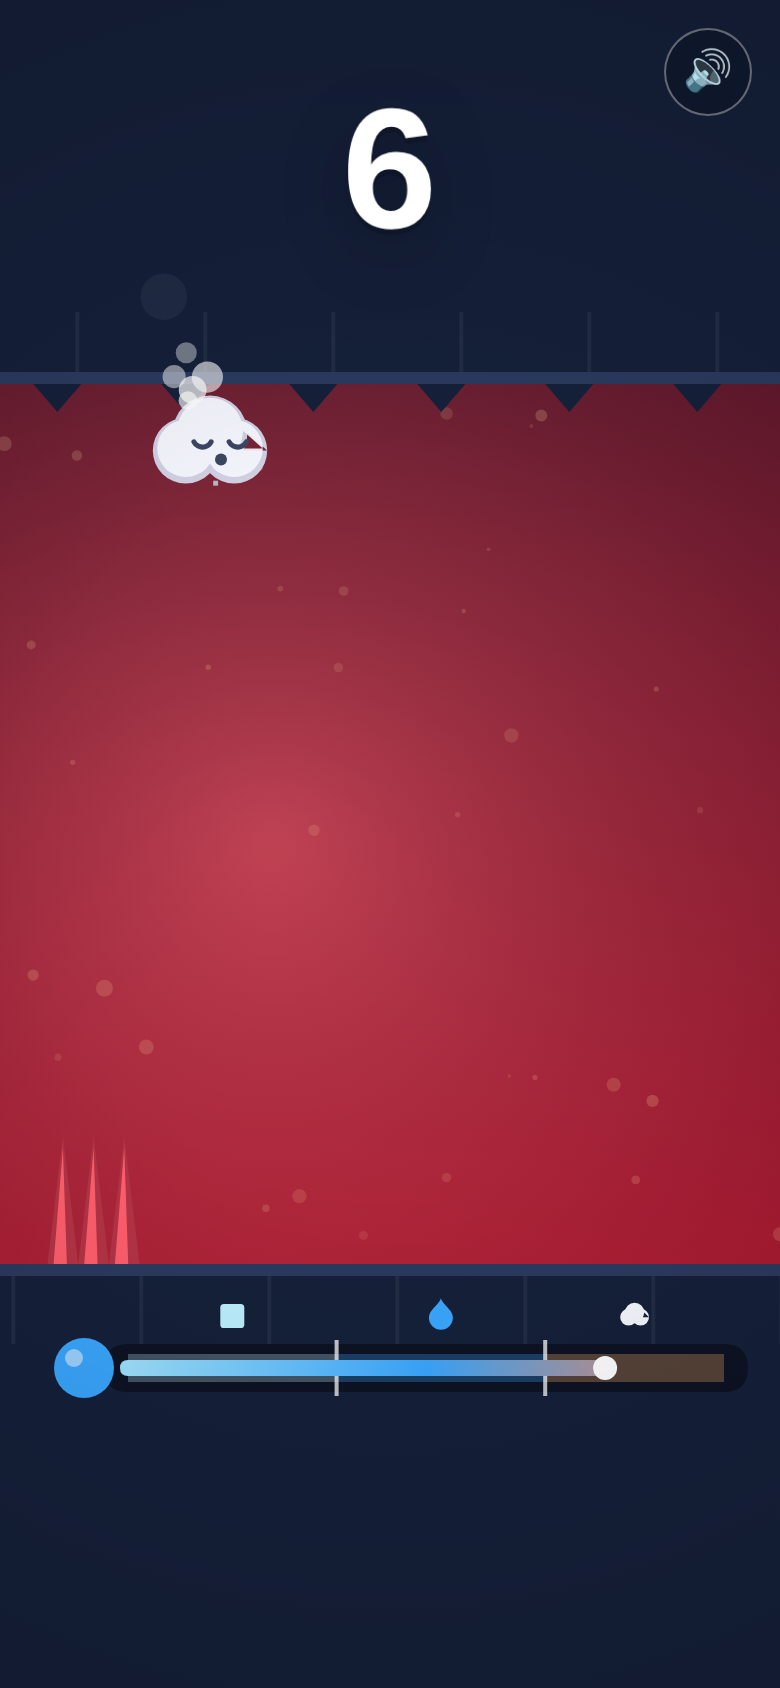
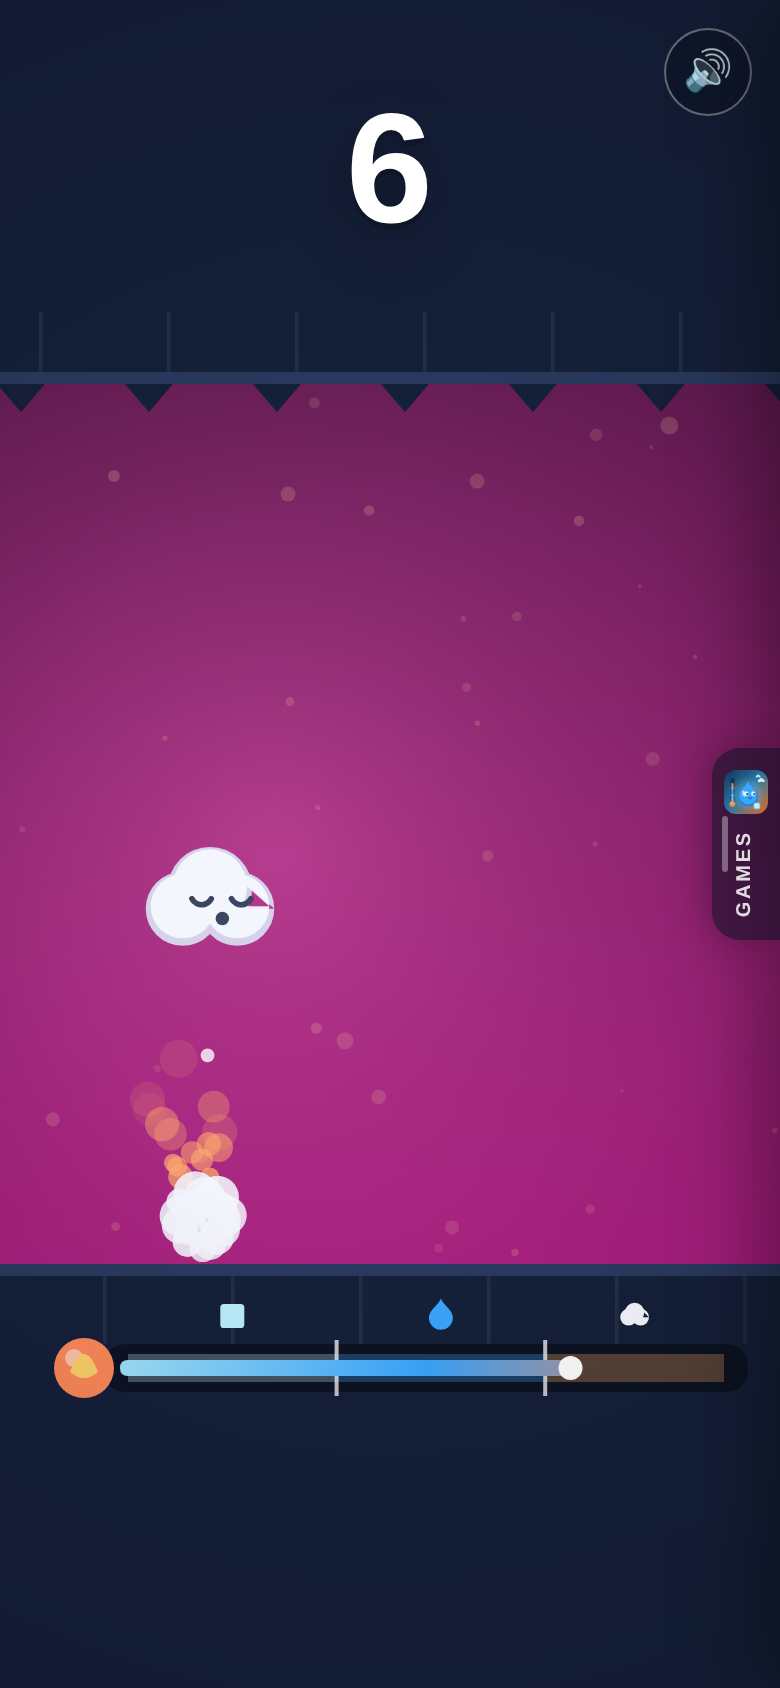
Add a shared right-edge game switcher drawer
switcher.js renders a vertical handle on the right edge of every game
page. Tapping it, or swiping in from the edge, slides open a drawer that
lists both games with icons and marks the one being played. A thin
data-ui edge strip owns the swipe so it never registers as a game input.
Both pages include it, both service workers cache it, and the headless
smoke test opens the drawer, checks the links and switches games.

Claude-Session: https://claude.ai/code/session_01GN1ViAcJT7YnuN6Pfh4UL5

diff --git a/switcher.js b/switcher.js
@@ -1,0 +1,109 @@
+/**
+ * Game switcher — a slide-in drawer on the right edge shared by every game
+ * in this repo. Tap the handle or swipe in from the right edge to open it.
+ *
+ * Include on any game page as a plain script with `data-game` set to the
+ * game's id. Paths resolve relative to this script, so it works from the
+ * root and from sub-folders alike.
+ */
+(function () {
+  const script = document.currentScript;
+  const current = (script && script.dataset.game) || '';
+  const base = new URL('.', script ? script.src : location.href).href;
+
+  const GAMES = [
+    { id: 'melt', name: 'MELT', tag: 'Hold to heat, release to cool', href: base, icon: base + 'art/icon-192.png', hue: '#3aa7ff' },
+    { id: 'sky-temple', name: 'Sky Temple', tag: 'Tap to stack to the gods', href: base + 'sky-temple/', icon: base + 'sky-temple/art/icon-192.png', hue: '#ff9a5b' },
+  ];
+
+  const css = `
+    .gsw-handle{position:fixed;right:0;top:50%;transform:translateY(-50%);z-index:60;width:34px;height:96px;border:0;border-radius:14px 0 0 14px;
+      background:rgba(10,16,32,.55);color:#fff;backdrop-filter:blur(10px);-webkit-backdrop-filter:blur(10px);box-shadow:-4px 0 18px rgba(0,0,0,.25);
+      display:flex;flex-direction:column;align-items:center;justify-content:center;gap:8px;cursor:pointer;touch-action:none;-webkit-tap-highlight-color:transparent;
+      transition:transform .35s cubic-bezier(.2,.9,.2,1.1),opacity .3s}
+    .gsw-handle img{width:22px;height:22px;border-radius:6px;display:block}
+    .gsw-handle span{font:800 10px/1 ui-rounded,-apple-system,"SF Pro Rounded","Segoe UI",Roboto,Arial,sans-serif;letter-spacing:.14em;writing-mode:vertical-rl;transform:rotate(180deg);opacity:.85}
+    .gsw-handle::before{content:"";position:absolute;left:5px;top:50%;width:3px;height:28px;margin-top:-14px;border-radius:2px;background:rgba(255,255,255,.35)}
+    .gsw-open .gsw-handle{transform:translate(-280px,-50%)}
+    .gsw-edge{position:fixed;top:0;right:0;bottom:0;width:22px;z-index:57;touch-action:none;background:transparent}
+    .gsw-back{position:fixed;inset:0;z-index:58;background:rgba(0,0,0,.35);opacity:0;pointer-events:none;transition:opacity .3s}
+    .gsw-open .gsw-back{opacity:1;pointer-events:auto}
+    .gsw-drawer{position:fixed;top:0;right:0;bottom:0;z-index:59;width:280px;max-width:88vw;padding:calc(env(safe-area-inset-top,0px) + 22px) 18px calc(env(safe-area-inset-bottom,0px) + 22px);
+      background:rgba(14,22,42,.86);backdrop-filter:blur(18px) saturate(1.3);-webkit-backdrop-filter:blur(18px) saturate(1.3);box-shadow:-10px 0 40px rgba(0,0,0,.35);
+      transform:translateX(100%);transition:transform .35s cubic-bezier(.2,.9,.2,1.1);display:flex;flex-direction:column;gap:12px;color:#fff;
+      font-family:ui-rounded,-apple-system,"SF Pro Rounded","Segoe UI",Roboto,Arial,sans-serif;touch-action:pan-y}
+    .gsw-open .gsw-drawer{transform:none}
+    .gsw-title{font-size:12px;letter-spacing:.26em;color:rgba(255,255,255,.65);margin:0 0 6px 4px}
+    .gsw-card{display:flex;align-items:center;gap:14px;padding:12px;border-radius:18px;text-decoration:none;color:#fff;background:rgba(255,255,255,.08);
+      border:1px solid rgba(255,255,255,.14);transition:transform .08s,background .2s}
+    .gsw-card:active{transform:scale(.98)}
+    .gsw-card.gsw-current{background:rgba(255,255,255,.18);border-color:rgba(255,255,255,.4)}
+    .gsw-card img{width:54px;height:54px;border-radius:14px;display:block;box-shadow:0 4px 0 rgba(0,0,0,.25)}
+    .gsw-card b{display:block;font-size:17px;letter-spacing:.04em}
+    .gsw-card small{display:block;font-size:12px;color:rgba(255,255,255,.7);margin-top:2px}
+    .gsw-badge{margin-left:auto;font-size:10px;font-weight:900;letter-spacing:.14em;padding:5px 8px;border-radius:999px;background:#fff;color:#1b2a44}
+    .gsw-hint{margin-top:auto;font-size:11px;color:rgba(255,255,255,.5);text-align:center;letter-spacing:.06em}
+  `;
+  const style = document.createElement('style');
+  style.textContent = css;
+  document.head.appendChild(style);
+
+  const cur = GAMES.find(g => g.id === current) || GAMES[0];
+
+  const handle = document.createElement('button');
+  handle.className = 'gsw-handle';
+  handle.type = 'button';
+  handle.setAttribute('data-ui', '');
+  handle.setAttribute('aria-label', 'Switch game');
+  handle.innerHTML = `<img alt="" src="${cur.icon}"><span>GAMES</span>`;
+
+  // Invisible strip along the right edge: swipes that start here belong to the
+  // switcher, and games skip anything marked data-ui, so a swipe never becomes a tap.
+  const edge = document.createElement('div');
+  edge.className = 'gsw-edge';
+  edge.setAttribute('data-ui', '');
+  edge.setAttribute('aria-hidden', 'true');
+
+  const back = document.createElement('div');
+  back.className = 'gsw-back';
+  back.setAttribute('data-ui', '');
+
+  const drawer = document.createElement('nav');
+  drawer.className = 'gsw-drawer';
+  drawer.setAttribute('data-ui', '');
+  drawer.setAttribute('aria-label', 'Games');
+  drawer.innerHTML = `<p class="gsw-title">SWITCH GAME</p>` + GAMES.map(g => `
+    <a class="gsw-card${g.id === cur.id ? ' gsw-current' : ''}" href="${g.href}" ${g.id === cur.id ? 'aria-current="page"' : ''}>
+      <img alt="" src="${g.icon}">
+      <div><b>${g.name}</b><small>${g.tag}</small></div>
+      ${g.id === cur.id ? '<span class="gsw-badge">PLAYING</span>' : ''}
+    </a>`).join('') + `<div class="gsw-hint">swipe in from the right edge any time</div>`;
+
+  document.body.append(edge, back, drawer, handle);
+
+  const open = () => document.body.classList.add('gsw-open');
+  const close = () => document.body.classList.remove('gsw-open');
+  const toggle = () => document.body.classList.toggle('gsw-open');
+
+  handle.addEventListener('click', (e) => { e.stopPropagation(); toggle(); });
+  back.addEventListener('click', close);
+  window.addEventListener('keydown', (e) => { if (e.key === 'Escape') close(); });
+
+  // Swipe: start on the edge strip and drag left to open; drag right anywhere while open to close.
+  let startX = null, startY = null, fromEdge = false;
+  window.addEventListener('pointerdown', (e) => {
+    startX = e.clientX; startY = e.clientY;
+    fromEdge = e.target === edge || e.target === handle;
+  }, { capture: true, passive: true });
+  edge.addEventListener('click', open);
+  window.addEventListener('pointermove', (e) => {
+    if (startX === null) return;
+    const dx = e.clientX - startX, dy = Math.abs(e.clientY - startY);
+    if (fromEdge && dx < -30 && dy < 60) { open(); startX = null; }
+    else if (document.body.classList.contains('gsw-open') && dx > 50 && dy < 80) { close(); startX = null; }
+  }, { capture: true, passive: true });
+  window.addEventListener('pointerup', () => { startX = null; }, { capture: true, passive: true });
+
+  // Expose for tooling/tests.
+  window.__gameSwitcher = { open, close, toggle, games: GAMES, current: cur.id };
+})();

diff --git a/sw.js b/sw.js
@@ -1,7 +1,7 @@
 /* MELT — offline cache. Bump VERSION whenever shipped files change. */
-const VERSION = 'melt-v1';
+const VERSION = 'melt-v2';
 const ASSETS = [
-  './', './index.html', './css/style.css', './manifest.webmanifest',
+  './', './index.html', './css/style.css', './manifest.webmanifest', './switcher.js',
   './src/main.js', './src/core/config.js', './src/core/melt.js', './src/core/palette.js',
   './src/render/renderer.js', './src/render/effects.js', './src/audio/sfx.js',
   './src/platform/storage.js', './src/platform/haptics.js', './src/platform/input.js',

diff --git a/sky-temple/sw.js b/sky-temple/sw.js
@@ -1,10 +1,12 @@
 /* Sky Temple — offline cache. Bump VERSION whenever shipped files change. */
-const VERSION = 'skytemple-v1';
+const VERSION = 'skytemple-v2';
 const ASSETS = [
   './',
   './index.html',
   './css/style.css',
   './manifest.webmanifest',
+  '../switcher.js',
+  '../art/icon-192.png',
   './src/main.js',
   './src/core/config.js',
   './src/core/stack.js',

diff --git a/sky-temple/index.html b/sky-temple/index.html
@@ -57,5 +57,6 @@
   <button id="mute" class="icon-btn" type="button" data-ui aria-label="Mute">🔊</button>
 
   <script type="module" src="src/main.js"></script>
+  <script src="../switcher.js" data-game="sky-temple"></script>
 </body>
 </html>

diff --git a/index.html b/index.html
@@ -63,5 +63,6 @@
   <button id="mute" class="icon-btn" type="button" data-ui aria-label="Mute">🔊</button>
 
   <script type="module" src="src/main.js"></script>
+  <script src="switcher.js" data-game="melt"></script>
 </body>
 </html>

diff --git a/README.md b/README.md
@@ -53,6 +53,7 @@ tools/make-icon.mjs             regenerates the icon
 tools/render-art.mjs            rasterises icons, captures screenshots, smoke-tests in headless Chromium
 tests/melt.test.js              rules, spacing fairness, 20-seed survival
 docs/                           design document, porting guide
+switcher.js                     right-edge drawer shared by both games: tap the handle or swipe from the edge to switch
 sky-temple/                     the previous prototype (a Stack-style tower game), still playable at /sky-temple/
 ```
 
